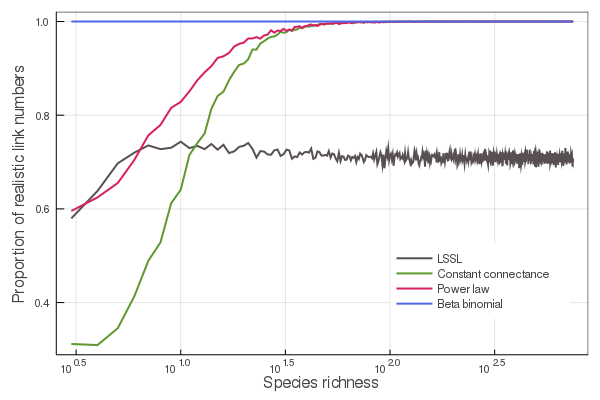
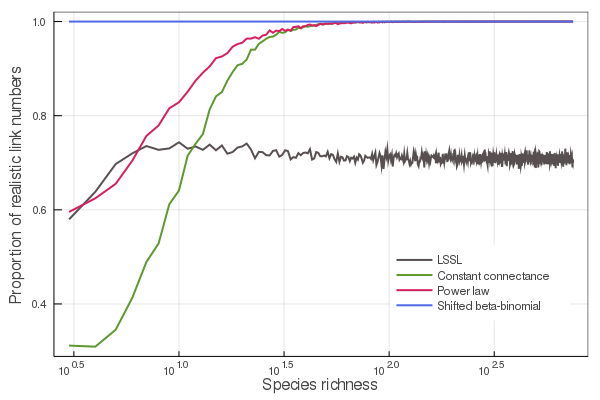
Figures' legend

diff --git a/manuscript.md b/manuscript.md
@@ -155,14 +155,15 @@ PSIS-LOO for the LSSL model warned of problematic values of the Pareto-k diagnos
 Additionally, we had to drop the largest observation (> 50 000 links) from all datasets in order to calculate PSIS-LOO for the LSSL model.
 Taken together, this suggests that the LSSL model is insufficiently flexible to accurately reproduce the data.  
 
-![Beta-binomial model fits better and makes a plausible range of predictions](figures/models_links.png){#fig:PP_counterfactual}
+![Beta-binomial model fits better and makes a plausible range of predictions. Number of links as a function of species richness obtained from the posterior distributions of A) the link-species scaling, B) the constant connectance, C) the power law and D) the shifted beta-binomial models. In each panel, the colored line represent the median predicted link number and the grey areas cover the 78% and 97% percentile intervals. Empirical data from the `mangal.io` database are plotted in each panel (grey dots), as well as the minimal $S-1$ and maximal $S^2$ number of links (lower and upper grey lines, respectively).  ](figures/models_links.png){#fig:PP_counterfactual}
+
 The constant connectance model makes many predictions which are only approximate. The power law model makes predictions which are closer to observed values, but
 they are frequently too low. The beta-binomial makes roughly the same predictions as the power law, but in
 this case they are held within biologically possible values.
 
 +@fig:real_predict shows that only a fraction of the models prediction were within realistic ecological constraints. The link-species scaling model made around 29% of unrealistic predictions of link numbers for every value of $S$ ($3 \leq S \leq 750$). The constant connectance and power law models, on the other hand, also produced unrealistic results but for small networks only. Indeed, more than 5% were unrealistic for networks comprising less than 22 and 17 species, and more than 20% were unrealistic for networks comprising less than 12 and 7 species, respectively. Only the shifted beta-binomial model never failed to predict numbers of links between $S-1$ and $S^2$.  
 
-![Beta-binomial model makes a plausible range of predictions](figures/real_predict.png){#fig:real_predict}
+![Beta-binomial model makes a plausible range of predictions. Proportion of realist predicted numbers of links as a function of species richness obtained from the posterior distributions of the four models. A realistic number of links is comprised between $S-1$ and $S^2$.](figures/real_predict.png){#fig:real_predict}
 
 
 
@@ -182,7 +183,7 @@ Table [tk] **Parameter estimates for all models**. Mean and Standard deviation (
 
 
 
-![Connectance and average degree can be derived from a model for links](figures/connectance_linkdens.png){#fig:beta_distributions}
+![Connectance and linkage density can be derived from a model for links. A) Connectance and B) linkage density as a function of species richness, for the maximum _a posteriori_ estimates of the shifted beta-binomial model. In each panel, the colored line represent the median predicted quantity and the grey areas cover the 78% and 97% percentile intervals. Empirical data from the `mangal.io` database are plotted in each panel (grey dots). In A), the minimal $(S-1)/(S^2)$ connectance and in B) the minimal $(S-1)/S$ and maximum $S$ linkage density are plotted (grey lines).](figures/connectance_linkdens.png){#fig:beta_distributions}
 
 
 ### Connectance and average degree can be derived from a model for links
@@ -278,7 +279,7 @@ world" or "scale free" regimes when they exceed a certain connectance; this is
 because for small networks, connectance is higher, and only decreases towards
 $p$ when the term in $S^{-2}$ in +@eq:co vanishes.
 
-![Powerlaw k](figures/k_powerlaw.png){#fig:powerlawk}
+![Only very large food webs obey a power law. Extent $k$ to which the relationship between $L$ and $S$ obeys a power law, as a function of species richness, obtained from the maximum _a posteriori_ estimates of the shifted beta-binomial model. The colored line represent the median predicted $k$ and the grey areas cover the 78% and 97% percentile intervals.](figures/k_powerlaw.png){#fig:powerlawk}
 
 ## Normal approximation provides an analytic z-score
 
@@ -297,7 +298,7 @@ $$ \sigma_L^2 = (S^2 - S + 1) \mu (1 - \mu)(1 + \frac{S(S-1)}{\phi + 1})$$
 
 (+@fig:MAPnormal) shows that the predictions made by the normal approximation (panel B) are similar to those made by the beta distribution parameterized with the maximum a posteriori values of $\mu$ and $\phi$ (panel A).
 
-![Normal approximation to the beta-binomial distribution](figures/betabinmap_normal_links.png){#fig:MAPnormal}
+![The shifted beta-binomial distribution can be approximated by a normal distribution. Number of links as a function of species richness obtained from A) the maximum _a posteriori_ estimates of the shifted beta-binomial model and B) its normal approximation. In each panel, the colored line represent the median predicted link number and the grey areas cover the 78% and 97% percentile intervals (only the 78% percentile interval is depicted in B). Empirical data from the `mangal.io` database are plotted in each panel (grey dots), as well as the minimal $S-1$ and maximal $S^2$ number of links (lower and upper grey lines, respectively).](figures/betabinmap_normal_links.png){#fig:MAPnormal}
 
 This means that given a network
 with observed species richness $S_{obs}$ and observed links $L_{obs}$, we can calculate its
